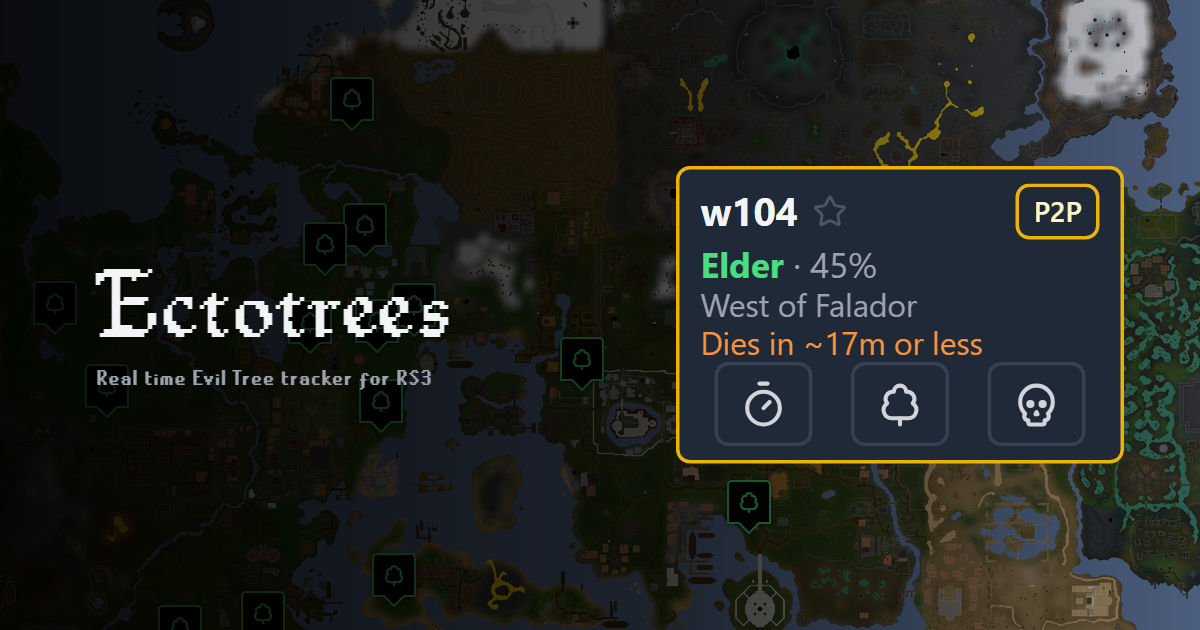
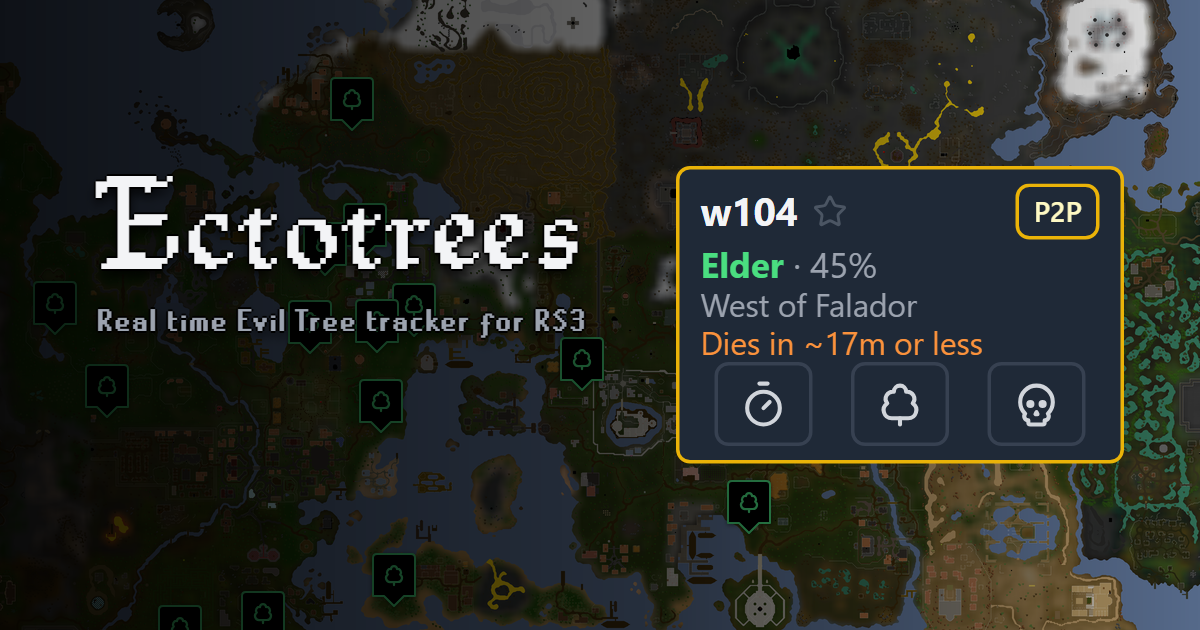
STYLE(og-image): tune OG image typography and overlay gradient

diff --git a/src/components/OgImage.tsx b/src/components/OgImage.tsx
@@ -34,19 +34,35 @@ export function OgImage({ wordmark, tagline, mapView, card }: Props) {
       </div>
       <div
         className="absolute inset-0"
-        style={{ background: 'linear-gradient(90deg, rgba(0, 0, 0, 0.90) 0%, rgba(0, 0, 0, 0.70) 55%, rgba(15,23,42,0.25) 100%)' }}
+        style={{ background: 'linear-gradient(90deg, rgba(0, 0, 0, 0.85) 0%, rgba(0, 0, 0, 0.60) 55%, rgba(0, 0, 0, 0.10) 100%)' }}
       />
 
       <div className="relative grid h-full grid-cols-2 items-center">
         <div className="flex flex-col justify-center pl-24">
           <div
-            className={`text-9xl ${TEXT_COLOR.prominent} text-shadow-sm`}
-            style={{ fontFamily: "'RuneScape Quill', serif" }}
+            className={`text-[175px] leading-none -mt-40 ${TEXT_COLOR.prominent}`}
+            style={{ fontFamily: "'RuneScape Quill', serif",
+              textShadow: [
+                '-2px 0 0 rgba(0,0,0,1)',
+                '2px 0 0 rgba(0,0,0,1)',
+                '0 -2px 0 rgba(0,0,0,1)',
+                '0 2px 0 rgba(0,0,0,1)',
+                '0 6px 12px rgba(0,0,0,0.9)',
+              ].join(', '),
+             }}
           >
             {wordmark}
           </div>
-          <div className={`text-2xl font-medium ${TEXT_COLOR.muted} text-shadow-sm`}
-          style={{ fontFamily: "'RuneScape Bold 12', serif" }}>
+          <div className={`text-[35px] leading-none font-medium ${TEXT_COLOR.muted}`}
+          style={{ fontFamily: "'RuneScape Bold 12', serif", 
+                textShadow: [
+                '-2px 0 0 rgba(0,0,0,1)',
+                '2px 0 0 rgba(0,0,0,1)',
+                '0 -2px 0 rgba(0,0,0,1)',
+                '0 2px 0 rgba(0,0,0,1)',
+                '0 6px 12px rgba(0,0,0,0.9)',
+              ].join(', '),
+          }}>
             {tagline}
           </div>
         </div>
